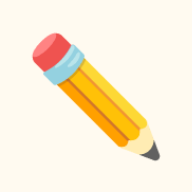
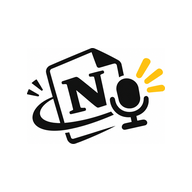
換上正式圖示；黑黃貼紙風重新設計（底部浮動分頁、紙膠帶確認卡、點點紙背景）；新增深夜模式切換
Claude-Session: https://claude.ai/code/session_01LNRuQ9X4yX8xkjoyreCnd2

Changed region(s): [[0.1562, 0.1562, 0.875, 0.8438], [0.125, 0.4062, 0.2188, 0.5]]

diff --git a/docs/style.css b/docs/style.css
@@ -1,112 +1,123 @@
-/* ===== 設計：以 Notion 為基底（乾淨、白底、灰色細線、彩色標籤），再加一點活潑的動畫 ===== */
+/* ===== 設計：Notion 的乾淨版面 × 圖示的黑黃貼紙風（粗黑線、偏移陰影、黃色亮點） ===== */
 :root {
-  --bg:#ffffff; --bg-soft:#f7f6f3; --text:#37352f; --text-2:#787774; --line:#e9e9e7; --hover:#efefed;
-  --accent:#9065b0; --accent-bg:#f4f0f7;           /* 跟著分頁換顏色 */
-  --c-purple:#9065b0; --c-purple-bg:#f4f0f7;
-  --c-green:#448361;  --c-green-bg:#edf3ec;
-  --c-orange:#d9730d; --c-orange-bg:#fbecdd;
-  --c-yellow:#cb912f; --c-yellow-bg:#fbf3db;
-  --c-blue:#337ea9;   --c-blue-bg:#e7f3f8;
-  --c-pink:#c14c8a;   --c-pink-bg:#f9eef3;
-  --radius:10px; --shadow:0 1px 2px rgba(15,15,15,.06), 0 4px 14px rgba(15,15,15,.06);
+  --bg:#fbfaf7; --paper:#ffffff; --ink:#111111; --text:#1f1f1f; --text-2:#6b6a66; --line:#111111; --soft:#f1efe9;
+  --yellow:#ffc21a; --yellow-soft:#fff3c4;
+  --accent:#8b5cf6; --accent-soft:#efe8ff;
+  --c-purple:#8b5cf6; --c-purple-bg:#efe8ff; --c-green:#22a06b; --c-green-bg:#dcf5e8;
+  --c-orange:#f97316; --c-orange-bg:#ffe8d6; --c-blue:#2f80ed; --c-blue-bg:#e2efff; --c-pink:#e2508a; --c-pink-bg:#ffe3ee;
+  --shadow:4px 4px 0 var(--ink); --shadow-sm:2px 2px 0 var(--ink);
+  --dots:rgba(17,17,17,.07);
   color-scheme:light;
 }
+:root[data-theme="dark"] {
+  --bg:#121212; --paper:#1c1c1c; --ink:#f5f5f0; --text:#eeeeea; --text-2:#a3a29c; --line:#f5f5f0; --soft:#262626;
+  --yellow-soft:#3a3214; --accent-soft:#2b2440;
+  --c-purple-bg:#2b2440; --c-green-bg:#16302a; --c-orange-bg:#3a2617; --c-blue-bg:#16263b; --c-pink-bg:#3a1c29;
+  --shadow:4px 4px 0 var(--yellow); --shadow-sm:2px 2px 0 var(--yellow); --dots:rgba(255,255,255,.06);
+  color-scheme:dark;
+}
 @media (prefers-color-scheme: dark) {
-  :root:not([data-theme="light"]) {
-    --bg:#191919; --bg-soft:#202020; --text:#e6e6e4; --text-2:#9b9b9b; --line:#2f2f2f; --hover:#2a2a2a;
-    --c-purple:#b28fd0; --c-purple-bg:#2e2638; --c-green:#6dbb8c; --c-green-bg:#23302a;
-    --c-orange:#e59a50; --c-orange-bg:#382a1e; --c-yellow:#d9ad5b; --c-yellow-bg:#352e1f;
-    --c-blue:#5fa8d3; --c-blue-bg:#1f2d36; --c-pink:#d77bab; --c-pink-bg:#36222d;
-    --shadow:0 1px 2px rgba(0,0,0,.3), 0 4px 14px rgba(0,0,0,.25);
+  :root:not([data-theme]) {
+    --bg:#121212; --paper:#1c1c1c; --ink:#f5f5f0; --text:#eeeeea; --text-2:#a3a29c; --line:#f5f5f0; --soft:#262626;
+    --yellow-soft:#3a3214; --accent-soft:#2b2440;
+    --c-purple-bg:#2b2440; --c-green-bg:#16302a; --c-orange-bg:#3a2617; --c-blue-bg:#16263b; --c-pink-bg:#3a1c29;
+    --shadow:4px 4px 0 var(--yellow); --shadow-sm:2px 2px 0 var(--yellow); --dots:rgba(255,255,255,.06);
     color-scheme:dark;
   }
 }
-body[data-tab="note"]  { --accent:var(--c-purple); --accent-bg:var(--c-purple-bg); }
-body[data-tab="plan"]  { --accent:var(--c-green);  --accent-bg:var(--c-green-bg); }
-body[data-tab="video"] { --accent:var(--c-orange); --accent-bg:var(--c-orange-bg); }
+body[data-tab="note"]  { --accent:var(--c-purple); --accent-soft:var(--c-purple-bg); }
+body[data-tab="plan"]  { --accent:var(--c-green);  --accent-soft:var(--c-green-bg); }
+body[data-tab="video"] { --accent:var(--c-orange); --accent-soft:var(--c-orange-bg); }
 
 [hidden] { display:none !important; }
 * { box-sizing:border-box; -webkit-tap-highlight-color:transparent; }
-html, body { margin:0; background:var(--bg); color:var(--text); }
-body { font:16px/1.6 ui-sans-serif, -apple-system, "Segoe UI", "Noto Sans TC", "PingFang TC", "Microsoft JhengHei", sans-serif; transition:background .3s; }
-
-/* 封面：像 Notion 頁面頂端的封面圖，會慢慢飄動的色塊 */
-.cover { position:relative; height:120px; overflow:hidden; background:var(--accent-bg); transition:background .4s; }
-.cover span { position:absolute; border-radius:50%; filter:blur(28px); opacity:.55; animation:float 9s ease-in-out infinite alternate; }
-.cover span:nth-child(1) { width:180px; height:180px; left:-30px; top:-60px; background:var(--accent); }
-.cover span:nth-child(2) { width:140px; height:140px; right:10%; top:-40px; background:var(--c-yellow); animation-delay:-3s; }
-.cover span:nth-child(3) { width:120px; height:120px; left:45%; top:40px; background:var(--c-blue); animation-delay:-6s; }
-@keyframes float { to { transform:translate(30px, 18px) scale(1.15); } }
-
-main { max-width:640px; margin:0 auto; padding:0 16px calc(96px + env(safe-area-inset-bottom)); }
-.page-icon { font-size:64px; line-height:1; margin:-40px 0 4px; padding:0; border:0; background:none; cursor:pointer; filter:drop-shadow(0 2px 4px rgba(0,0,0,.12)); transition:transform .2s; }
-.page-icon:active, .page-icon.spin { animation:wiggle .5s ease; }
-@keyframes wiggle { 30% { transform:rotate(-14deg) scale(1.1); } 60% { transform:rotate(10deg) scale(1.05); } }
-h1 { font-size:32px; font-weight:700; margin:6px 0 2px; letter-spacing:-.01em; }
-.greet { color:var(--text-2); margin:0 0 18px; min-height:1.6em; }
-
-/* 分頁：Notion 的選項標籤樣式 */
-.tabs { display:flex; gap:6px; margin-bottom:16px; padding:4px; background:var(--bg-soft); border-radius:12px; }
-.tab { flex:1; border:0; background:transparent; color:var(--text-2); padding:9px 6px; border-radius:9px; font:inherit; font-size:15px; font-weight:500; cursor:pointer; white-space:nowrap; transition:all .2s; }
-.tab:hover { background:var(--hover); }
-.tab.on { background:var(--bg); color:var(--accent); box-shadow:var(--shadow); font-weight:600; transform:translateY(-1px); }
-
-/* 輸入框與按鈕 */
-input, textarea, select { width:100%; font:inherit; color:var(--text); background:var(--bg); border:1px solid var(--line); border-radius:8px; padding:10px 12px; transition:border-color .15s, box-shadow .15s; }
-textarea { resize:vertical; min-height:110px; line-height:1.7; }
-input:focus, textarea:focus, select:focus { outline:none; border-color:var(--accent); box-shadow:0 0 0 3px var(--accent-bg); }
-::placeholder { color:var(--text-2); opacity:.7; }
-button { font:inherit; cursor:pointer; }
-#app button:not(.tab):not(.chip):not(.result):not(.small-btn), #loginBtn {
-  border:0; border-radius:8px; padding:10px 16px; background:var(--accent); color:#fff; font-weight:600;
-  box-shadow:0 2px 0 rgba(0,0,0,.08); transition:transform .1s, filter .15s;
+html, body { margin:0; }
+body {
+  color:var(--text); background-color:var(--bg);
+  background-image:radial-gradient(var(--dots) 1.2px, transparent 1.2px); background-size:18px 18px; /* 點點筆記紙 */
+  font:16px/1.6 ui-sans-serif, -apple-system, "Segoe UI", "Noto Sans TC", "PingFang TC", "Microsoft JhengHei", sans-serif;
+  transition:background-color .3s, color .3s;
 }
-#app button:not(.tab):not(.chip):not(.result):not(.small-btn):hover, #loginBtn:hover { filter:brightness(1.07); }
-#app button:active, #loginBtn:active { transform:scale(.96); }
-#app button.ghost { background:var(--bg) !important; color:var(--text) !important; border:1px solid var(--line) !important; box-shadow:none !important; font-weight:500 !important; }
-button.recording { background:#e03e3e !important; color:#fff !important; border-color:#e03e3e !important; animation:pulse 1.2s infinite; }
-@keyframes pulse { 50% { box-shadow:0 0 0 8px rgba(224,62,62,.18); } }
+main { max-width:640px; margin:0 auto; padding:18px 16px calc(120px + env(safe-area-inset-bottom)); }
+
+/* ===== 頂部：貼紙圖示 + 對話泡泡 ===== */
+.hero { position:relative; display:flex; gap:14px; align-items:center; margin:6px 0 22px; }
+.sticker { flex:none; width:92px; height:92px; padding:6px; border:2.5px solid var(--ink); border-radius:24px; background:#fff; box-shadow:var(--shadow); transform:rotate(-6deg); cursor:pointer; transition:transform .2s; }
+.sticker img { width:100%; height:100%; display:block; }
+.sticker:hover { transform:rotate(-2deg) scale(1.04); }
+.sticker.spin { animation:wiggle .55s ease; }
+@keyframes wiggle { 25% { transform:rotate(-16deg) scale(1.08); } 55% { transform:rotate(8deg) scale(1.04); } 80% { transform:rotate(-8deg); } }
+.hero-text { min-width:0; }
+h1 { font-size:34px; line-height:1.1; font-weight:900; margin:0 0 10px; letter-spacing:-.02em; color:var(--ink); }
+h1 .hl { background:linear-gradient(transparent 58%, var(--yellow) 58%, var(--yellow) 92%, transparent 92%); padding:0 2px; }
+.bubble { position:relative; display:inline-block; margin:0; padding:6px 12px; font-size:14px; background:var(--paper); border:2px solid var(--ink); border-radius:14px 14px 14px 4px; box-shadow:var(--shadow-sm); color:var(--text); }
+.theme-btn { position:absolute; right:0; top:0; width:42px; height:42px; font-size:20px; border:2px solid var(--ink); border-radius:50%; background:var(--paper); box-shadow:var(--shadow-sm); cursor:pointer; transition:transform .3s; }
+.theme-btn:active { transform:rotate(180deg) scale(.9); }
+
+/* ===== 分頁：浮在底部的膠囊導覽列 ===== */
+.tabs { position:fixed; z-index:8; left:50%; transform:translateX(-50%); bottom:calc(14px + env(safe-area-inset-bottom)); width:min(calc(100% - 32px), 460px);
+  display:flex; gap:6px; padding:6px; background:var(--paper); border:2.5px solid var(--ink); border-radius:20px; box-shadow:var(--shadow); }
+.tab { flex:1; border:0; background:transparent; color:var(--text-2); padding:8px 4px; border-radius:14px; font:inherit; font-size:14px; font-weight:700; cursor:pointer; white-space:nowrap; transition:all .2s cubic-bezier(.2,.9,.3,1.4); }
+.tab.on { background:var(--accent); color:#fff; transform:translateY(-6px) rotate(-2deg); box-shadow:var(--shadow-sm); }
+
+/* ===== 輸入與按鈕 ===== */
+input, textarea, select { width:100%; font:inherit; color:var(--text); background:var(--paper); border:2px solid var(--ink); border-radius:12px; padding:10px 12px; transition:box-shadow .15s, transform .15s; }
+textarea { resize:vertical; min-height:120px; line-height:1.7; box-shadow:var(--shadow); }
+input:focus, textarea:focus, select:focus { outline:none; box-shadow:4px 4px 0 var(--accent); }
+::placeholder { color:var(--text-2); opacity:.75; }
+button { font:inherit; cursor:pointer; color:inherit; }
+#app button:not(.tab):not(.chip):not(.result):not(.small-btn), #loginBtn {
+  border:2px solid var(--ink); border-radius:12px; padding:10px 18px; background:var(--yellow); color:#111; font-weight:800;
+  box-shadow:var(--shadow-sm); transition:transform .1s, box-shadow .1s;
+}
+#app button:not(.tab):not(.chip):not(.result):not(.small-btn):hover, #loginBtn:hover { transform:translate(-1px,-1px); box-shadow:3px 3px 0 var(--ink); }
+#app button:not(.tab):not(.chip):not(.result):not(.small-btn):active, #loginBtn:active { transform:translate(2px,2px); box-shadow:none; }
+#app button.ghost { background:var(--paper) !important; color:var(--text) !important; }
+button.recording { background:#ff5a5a !important; color:#fff !important; animation:pulse 1.1s infinite; }
+@keyframes pulse { 50% { box-shadow:0 0 0 8px rgba(255,90,90,.25); } }
 button:disabled { opacity:.6; cursor:wait; }
-.row { display:flex; gap:10px; margin-top:12px; justify-content:space-between; align-items:center; }
+.row { display:flex; gap:12px; margin-top:14px; justify-content:space-between; align-items:center; }
 
-/* 確認卡：像 Notion 的頁面屬性區 */
-.card { margin-top:16px; padding:16px; background:var(--bg); border:1px solid var(--line); border-radius:12px; box-shadow:var(--shadow); display:grid; gap:12px; animation:pop .25s ease; }
-@keyframes pop { from { opacity:0; transform:translateY(8px) scale(.98); } }
-.card > label, .fields label, label.tpl { display:grid; gap:5px; font-size:14px; color:var(--text-2); font-weight:500; }
+/* ===== 確認卡：像一張貼上去的便條 ===== */
+.card { position:relative; margin-top:20px; padding:18px 16px 16px; background:var(--paper); border:2.5px solid var(--ink); border-radius:16px; box-shadow:var(--shadow); display:grid; gap:12px; animation:drop .35s cubic-bezier(.2,.9,.3,1.3); }
+.card::before { content:""; position:absolute; top:-12px; left:50%; width:84px; height:22px; transform:translateX(-50%) rotate(-3deg); background:var(--yellow); opacity:.85; border-radius:3px; } /* 紙膠帶 */
+@keyframes drop { from { opacity:0; transform:translateY(-10px) rotate(-1.5deg); } }
+.card > label, .fields label, label.tpl { display:grid; gap:5px; font-size:14px; color:var(--text-2); font-weight:700; }
 .fields { display:grid; gap:12px; }
-label.tpl.step { margin:0 0 12px; }
-.callout { display:flex; gap:10px; align-items:flex-start; background:var(--bg-soft); border-radius:8px; padding:12px 14px; margin-bottom:12px; }
+label.tpl.step { margin:0 0 14px; padding:10px 12px; background:var(--accent-soft); border:2px dashed var(--ink); border-radius:14px; color:var(--text); }
+.callout { display:flex; gap:10px; align-items:flex-start; background:var(--yellow-soft); border:2px solid var(--ink); border-radius:14px; padding:12px 14px; margin-bottom:12px; box-shadow:var(--shadow-sm); }
 .callout > span { font-size:20px; }
-#login input { margin-bottom:10px; }
+#login input { margin-bottom:12px; }
 
-/* 標籤：輪流用 Notion 的顏色 */
+/* ===== 標籤：彩色小貼紙 ===== */
 .chips { display:flex; flex-wrap:wrap; gap:6px; }
-.chip { border:0; border-radius:4px; padding:2px 8px; font-size:14px; background:var(--c-yellow-bg); color:var(--c-yellow); animation:pop .2s ease; }
-.chip:nth-child(5n+2) { background:var(--c-blue-bg); color:var(--c-blue); }
-.chip:nth-child(5n+3) { background:var(--c-pink-bg); color:var(--c-pink); }
-.chip:nth-child(5n+4) { background:var(--c-green-bg); color:var(--c-green); }
-.chip:nth-child(5n+5) { background:var(--c-purple-bg); color:var(--c-purple); }
+.chip { border:1.5px solid var(--ink); border-radius:999px; padding:2px 10px; font-size:13px; font-weight:700; background:var(--yellow-soft); color:var(--text); animation:pop .25s cubic-bezier(.2,.9,.3,1.5); }
+.chip:nth-child(5n+2) { background:var(--c-blue-bg); }
+.chip:nth-child(5n+3) { background:var(--c-pink-bg); }
+.chip:nth-child(5n+4) { background:var(--c-green-bg); }
+.chip:nth-child(5n+5) { background:var(--c-purple-bg); }
+.chip:nth-child(odd) { transform:rotate(-2deg); }
+@keyframes pop { from { transform:scale(.4); opacity:0; } }
 .inline { display:flex; gap:8px; }
 .inline input { flex:1; }
-.small-btn { border:1px solid var(--line); background:var(--bg); color:var(--text); border-radius:8px; padding:6px 12px; white-space:nowrap; }
+.small-btn { border:2px solid var(--ink); background:var(--paper); border-radius:12px; padding:6px 12px; white-space:nowrap; font-weight:700; }
 .results { display:grid; gap:2px; }
-.result { text-align:left; border:0; background:transparent; color:var(--text); padding:7px 10px; border-radius:6px; font-size:15px; }
-.result:hover { background:var(--hover); }
+.result { text-align:left; border:0; background:transparent; padding:7px 10px; border-radius:8px; font-size:15px; }
+.result:hover { background:var(--soft); }
 .result::before { content:"📄 "; }
-#videoThumb { width:100%; border-radius:10px; aspect-ratio:16/9; object-fit:cover; }
+#videoThumb { width:100%; border:2px solid var(--ink); border-radius:12px; aspect-ratio:16/9; object-fit:cover; }
 .hint { margin:8px 0 0; color:var(--text-2); font-size:14px; }
-.small { font-size:14px; color:var(--text-2); margin-top:22px; }
-a { color:var(--text-2); text-decoration:underline; text-decoration-color:var(--line); text-underline-offset:3px; }
-#videoOpen { display:inline-block; margin-top:8px; padding:10px 14px; border-radius:8px; background:var(--accent-bg); color:var(--accent); text-decoration:none; font-weight:600; }
+.small { font-size:14px; color:var(--text-2); margin-top:24px; }
+a { color:var(--text-2); text-underline-offset:3px; }
+#videoOpen { display:inline-block; margin-top:10px; padding:10px 14px; border:2px solid var(--ink); border-radius:12px; background:var(--accent); color:#fff; text-decoration:none; font-weight:800; box-shadow:var(--shadow-sm); }
 
-/* 訊息：從下方滑出的小卡片 */
-#msg { position:fixed; left:50%; bottom:calc(18px + env(safe-area-inset-bottom)); transform:translate(-50%, 150%); width:max-content; max-width:min(92vw, 560px); padding:11px 16px; border-radius:10px; background:var(--text); color:var(--bg); font-size:15px; box-shadow:var(--shadow); white-space:pre-line; transition:transform .3s cubic-bezier(.2,.9,.3,1.3); z-index:10; }
-#msg.show { transform:translate(-50%, 0); }
-#msg.ok { background:var(--c-green); color:#fff; }
+/* ===== 訊息小卡（在導覽列上方） ===== */
+#msg { position:fixed; left:50%; bottom:calc(92px + env(safe-area-inset-bottom)); transform:translate(-50%, 260%); width:max-content; max-width:min(92vw, 560px); padding:10px 16px; border:2px solid var(--ink); border-radius:14px; background:var(--paper); color:var(--text); font-weight:600; font-size:15px; box-shadow:var(--shadow); white-space:pre-line; transition:transform .35s cubic-bezier(.2,.9,.3,1.3); z-index:10; }
+#msg.show { transform:translate(-50%, 0) rotate(-1deg); }
+#msg.ok { background:var(--yellow); color:#111; }
 
-/* 存檔成功的小慶祝 */
 #burst { position:fixed; inset:0; pointer-events:none; z-index:9; overflow:hidden; }
-#burst i { position:absolute; bottom:60px; font-style:normal; font-size:26px; animation:fly 1.3s ease-out forwards; }
+#burst i { position:absolute; bottom:100px; font-style:normal; font-size:26px; animation:fly 1.3s ease-out forwards; }
 @keyframes fly { to { transform:translate(var(--x), -70vh) rotate(var(--r)); opacity:0; } }
 
 @media (prefers-reduced-motion: reduce) { *, *::before, *::after { animation:none !important; transition:none !important; } }

diff --git a/docs/app.js b/docs/app.js
@@ -10,13 +10,13 @@ const msg = (t) => {
   m.textContent = t;
   m.classList.toggle('ok', t.startsWith('✅'));
   m.classList.add('show');
-  if (t.startsWith('✅')) celebrate();
+  if (t.startsWith('✅')) { celebrate(); navigator.vibrate?.(30); }
   if (!/中…/.test(t)) msgTimer = setTimeout(() => m.classList.remove('show'), t.startsWith('✅') ? 4000 : 6000);
 };
-function celebrate() {
+function celebrate(n = 14) {
   const pool = ['🎉', '✨', '🌟', '💛', '🥳', '👏', '🍀', '🎈'];
   const box = $('burst');
-  for (let i = 0; i < 14; i++) {
+  for (let i = 0; i < n; i++) {
     const e = document.createElement('i');
     e.textContent = pool[Math.floor(Math.random() * pool.length)];
     e.style.left = 10 + Math.random() * 80 + '%';
@@ -26,7 +26,6 @@ function celebrate() {
     box.append(e);
     setTimeout(() => e.remove(), 1700);
   }
-  navigator.vibrate?.(30);
 }
 
 // 打招呼：依時段換一句，每次打開都不太一樣
@@ -39,15 +38,29 @@ function celebrate() {
     : ['晚安～今天辛苦了 🌆', '晚上好，回顧一下今天吧 🛋', '收工前，把待辦交給我 ✅'];
   $('greet').textContent = sets[Math.floor(Math.random() * sets.length)];
 })();
-// 點頁面圖示換個心情
-const ICONS = ['✏', '🐣', '🌈', '🍀', '🚀', '🎧', '🌻', '🦄', '🍩', '🐳', '🔮', '🎨'];
+// 戳一下圖示：晃一晃，噴出小貼紙
 $('pageIcon').onclick = () => {
   const el = $('pageIcon');
-  el.textContent = ICONS[(ICONS.indexOf(el.textContent) + 1) % ICONS.length];
   el.classList.remove('spin'); void el.offsetWidth; el.classList.add('spin');
-  try { localStorage.setItem('icon', el.textContent); } catch {}
+  celebrate(5);
 };
-try { const ic = localStorage.getItem('icon'); if (ic) $('pageIcon').textContent = ic; } catch {}
+
+// 深夜模式切換（記住選擇；沒選過就跟著手機設定）
+function isDark() {
+  const t = document.documentElement.dataset.theme;
+  return t ? t === 'dark' : matchMedia('(prefers-color-scheme: dark)').matches;
+}
+function paintThemeBtn() {
+  $('themeBtn').textContent = isDark() ? '☀' : '🌙';
+  document.querySelectorAll('meta[name="theme-color"]').forEach((m) => m.setAttribute('content', isDark() ? '#121212' : '#fbfaf7'));
+}
+$('themeBtn').onclick = () => {
+  const next = isDark() ? 'light' : 'dark';
+  document.documentElement.dataset.theme = next;
+  try { localStorage.setItem('theme', next); } catch {}
+  paintThemeBtn();
+};
+paintThemeBtn();
 document.body.dataset.tab = 'note';
 
 function getToken() { try { return localStorage.getItem('token'); } catch { return null; } }

diff --git a/docs/index.html b/docs/index.html
@@ -6,6 +6,7 @@
 <meta http-equiv="Content-Security-Policy" content="default-src 'self'; script-src 'self'; style-src 'self' https://fonts.googleapis.com; font-src https://fonts.gstatic.com; connect-src https://*.workers.dev http://localhost:8787; img-src 'self' data: https://i.ytimg.com https://*.cdninstagram.com https://*.fbcdn.net">
 <meta name="referrer" content="no-referrer">
 <title>語音助手</title>
+<script src="theme.js"></script>
 <link rel="manifest" href="manifest.json">
 <link rel="icon" href="icon-192.png">
 <link rel="apple-touch-icon" href="icon-192.png">
@@ -14,11 +15,15 @@
 <link rel="stylesheet" href="style.css">
 </head>
 <body>
-<div class="cover" id="cover" aria-hidden="true"><span></span><span></span><span></span></div>
 <main>
-  <button class="page-icon" id="pageIcon" type="button" aria-label="換個心情">✏</button>
-  <h1>語音助手</h1>
-  <p class="greet" id="greet"></p>
+  <header class="hero">
+    <button class="theme-btn" id="themeBtn" type="button" aria-label="切換深夜模式">🌙</button>
+    <button class="sticker" id="pageIcon" type="button" aria-label="戳一下"><img src="logo.png" alt=""></button>
+    <div class="hero-text">
+      <h1>語音<span class="hl">助手</span></h1>
+      <p class="bubble" id="greet"></p>
+    </div>
+  </header>
 
   <section id="login" hidden>
     <div class="callout"><span>🔐</span><div>歡迎回來！輸入 APP 密碼就能開始</div></div>

diff --git a/docs/sw.js b/docs/sw.js
@@ -1,7 +1,7 @@
 // 讓 APP 可以加入主畫面。不快取任何資料，只快取畫面檔案。
-const VERSION = 15;
+const VERSION = 16;
 const CACHE = 'shell-v' + VERSION;
-const FILES = ['./', 'index.html', 'style.css', 'app.js', 'config.js', 'fields.js', 'manifest.json', 'icon-192.png', 'icon-512.png'];
+const FILES = ['./', 'index.html', 'style.css', 'app.js', 'config.js', 'fields.js', 'manifest.json', 'icon-192.png', 'icon-512.png', 'logo.png', 'theme.js'];
 self.addEventListener('install', (e) => { e.waitUntil(caches.open(CACHE).then((c) => c.addAll(FILES))); self.skipWaiting(); });
 self.addEventListener('activate', (e) => { e.waitUntil(caches.keys().then((ks) => Promise.all(ks.filter((k) => k !== CACHE).map((k) => caches.delete(k))))); self.clients.claim(); });
 self.addEventListener('fetch', (e) => {

diff --git a/docs/theme.js b/docs/theme.js
@@ -1,0 +1,2 @@
+// 一打開就套用上次選的深淺色，避免畫面閃一下
+try { var t = localStorage.getItem("theme"); if (t) document.documentElement.dataset.theme = t; } catch (e) {}
